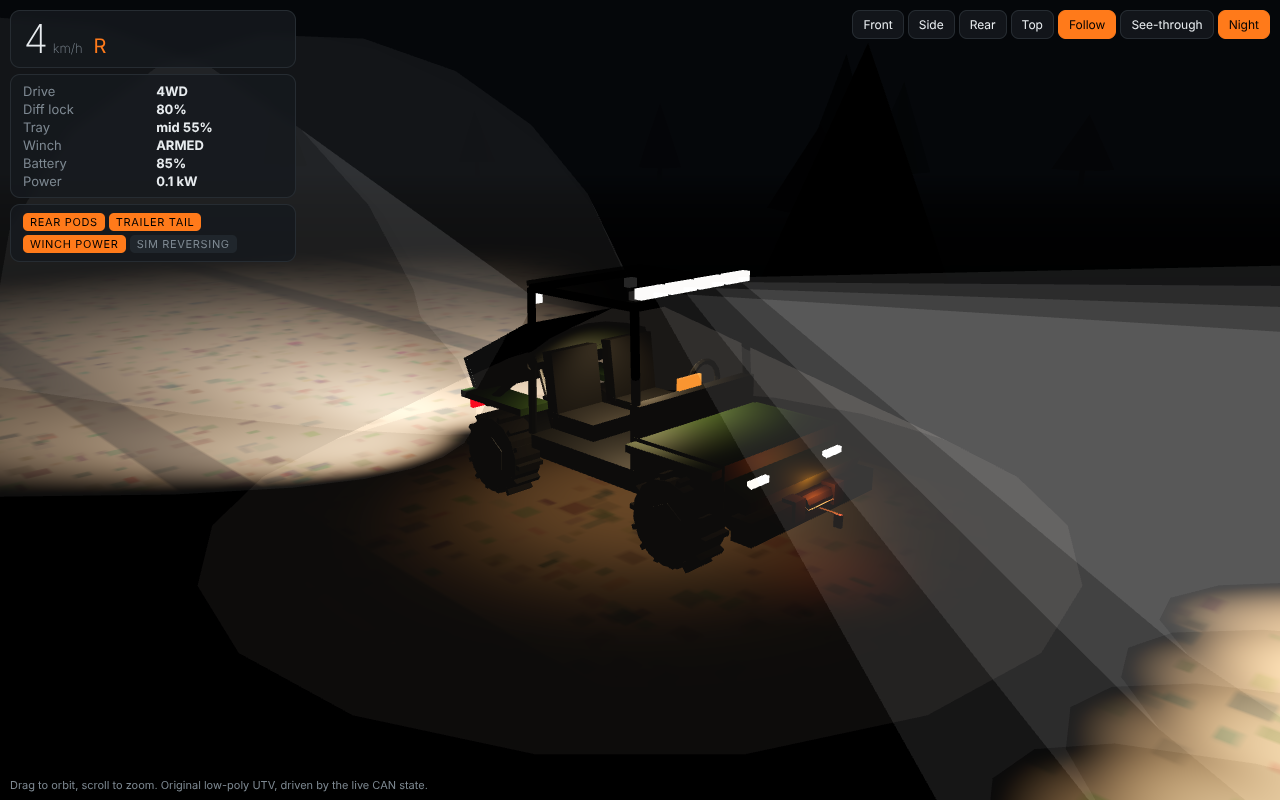
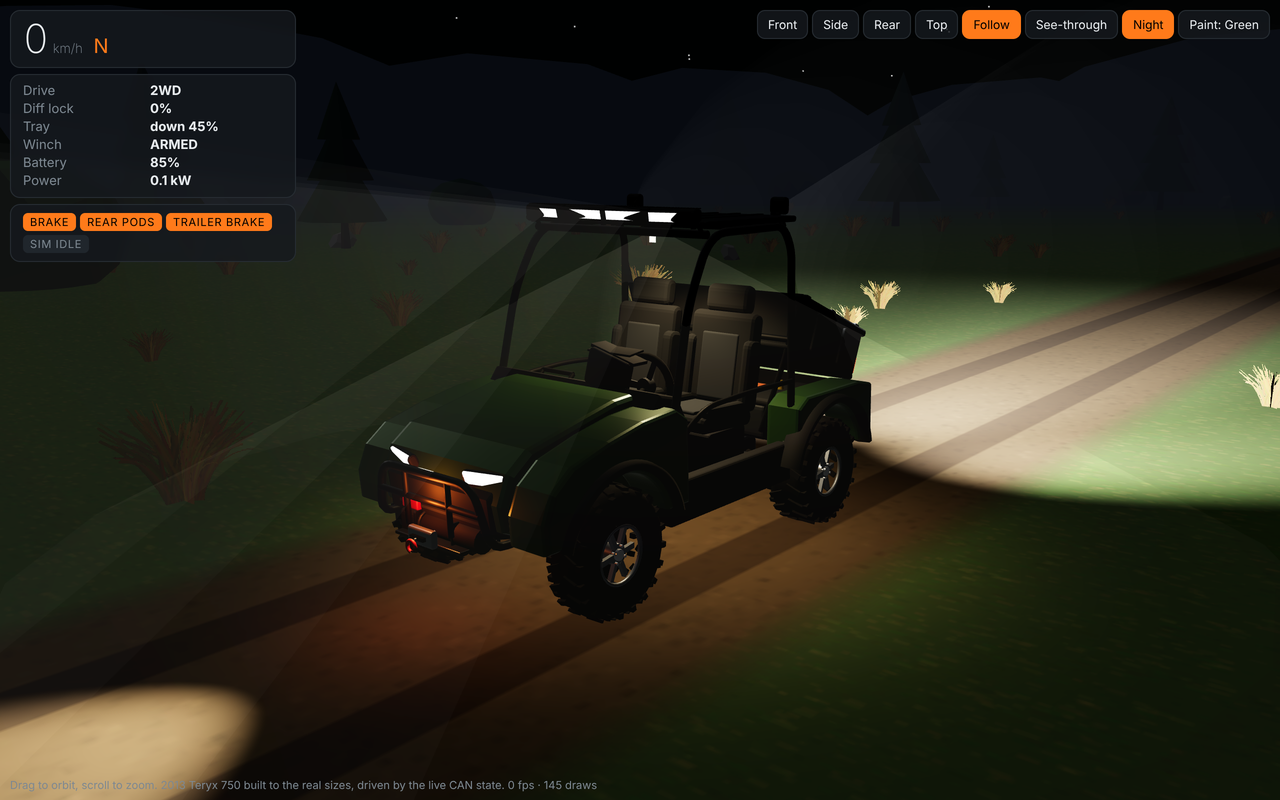
Docs: describe the new virtual Teryx, fresh screenshots
Claude-Session: https://claude.ai/code/session_018hTF7yrR4m1TUnCNWKWdY1

diff --git a/docs/TEST_ENVIRONMENT.md b/docs/TEST_ENVIRONMENT.md
@@ -75,8 +75,9 @@ either CAN link, and run the sim up to 5x faster.
 
 ## Virtual Teryx
 
-`/virtual` (also shown at the top of the sim panel) is a simple low-poly 3D
-UTV that shows what the CAN bus is saying, live:
+`/virtual` (also shown at the top of the sim panel) is a 3D 2013 Teryx 750
+two seater, built in code to the real spec-sheet sizes, that shows what the
+CAN bus is saying, live:
 
 - wheels turn and the ground scrolls with speed, the body pitches on hills
 - the four front bars, interior bar and rear pods light up at their actual
@@ -89,10 +90,17 @@ UTV that shows what the CAN bus is saying, live:
 - brake and tail lights, and the trailer plug's tail and brake pins
 - **See-through** shows the drivetrain under the body, **Night** turns the
   sun off so the lights stand out (keys `x` and `n`)
+- **Paint** cycles the body colour (key `p`), and the dash screen shows a
+  tiny live version of the dash
+- on a Pi (or with `?lite`) it drops the pixel ratio and shadow size to keep
+  the frame rate up. `?night`, `?xray` and `?cam=x,y,z` set the view on load
 
 It only reads the dash feed, so it works the same on the sim, a replayed log
-or the real bus. The shape is our own, not a copy of the Kawasaki. three.js
-(MIT) is bundled in `teryx/web/vendor/` so it works with no internet.
+or the real bus. No free Teryx model with an MIT-friendly licence
+exists, so the model is drawn in code in `teryx/web/virtual/teryx-model.js`
+(no third-party mesh or artwork). three.js (MIT) is bundled in `teryx/web/vendor/` so it works with no internet.
+
+![Virtual Teryx](img/virtual-teryx-day.png)
 
 ![Virtual Teryx at night](img/virtual-teryx-night.png)
 
